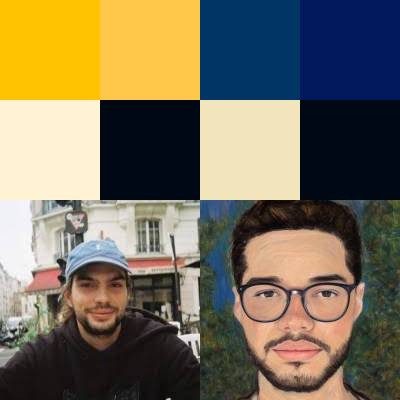
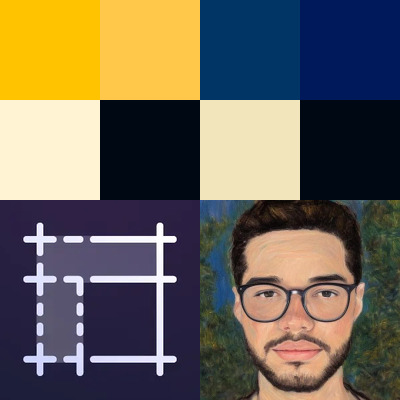
NavBar update
changed from Julien Thibeaut's to Build UI's animated tab component
fix- updated Mosaic image and Sobre o site text

Changed region(s): [[0.0, 0.48, 0.51, 1.0]]

diff --git a/kojima/src/components/NavBar.jsx b/kojima/src/components/NavBar.jsx
@@ -1,0 +1,60 @@
+import { motion } from "framer-motion";
+import { useState } from "react";
+import { useNavigate, useLocation } from "react-router-dom";
+
+const tabs = [
+    { id: "home",     label: "Home",     path: "/home" },
+    { id: "projetos", label: "Projetos", path: "/projetos" },
+    { id: "info",     label: "Info",     path: "/info" }
+];
+
+function NavBar() {
+    const navigate = useNavigate();
+    const location = useLocation();
+    const [activeTab, setActiveTab] = useState(
+        tabs.find(tab => tab.path === (location.pathname || "/"))?.id || "home"
+    );
+
+    const handleTabClick = (tab) => {
+        setActiveTab(tab.id);
+        navigate(tab.path);
+    };
+
+    return (
+        <div className="flex space-x-1">
+            <div className="navbar-container">
+                {tabs.map((tab) => (
+                    <button
+                        key={tab.id}
+                        onClick={() => handleTabClick(tab)}
+                        className={`${
+                            activeTab === tab.id ? "" : "hover:text-[color:var(--h1-color)]"
+                        } relative rounded-full px-1 py-1.5 transition`}
+                        style={{
+                            WebkitTapHighlightColor: "transparent",
+                        }}
+                    >
+                        {activeTab === tab.id && (
+                            <motion.span
+                                layoutId="bubble"
+                                // className="absolute inset-0 z-10 bg-white mix-blend-difference"
+                                className="absolute inset-0.5 z-10 bg-[color:var(--h1-color)]"  //bubble color
+                                style={{ borderRadius: 100 }}
+                                transition={{ type: "spring", bounce: 0.0, duration: 0.2 }}
+                            />
+                        )}
+                        <span
+                            className={`${
+                                activeTab === tab.id ? "text-[color:var(--background-color)]" : "hover:text-[color:var(--h1-color)] text-[color:var(--text-color)]"
+                            } relative z-20 font-bold text-1xl px-4 py-2`}
+                        >
+                            {tab.label}
+                        </span>
+                    </button>
+                ))}
+            </div>
+        </div>
+    );
+}
+
+export default NavBar;

diff --git a/kojima/src/pages/Info.js b/kojima/src/pages/Info.js
@@ -4,7 +4,7 @@ import Mosaic   from "./images/Mosaic.jpg";
 
 const links = {
     fog_itch: "https://fog-icmc.itch.io/",
-    navbar: "https://ibelick.com/blog/build-animated-sliding-tab-bar-with-react-tailwind-css/",
+    navbar: "https://buildui.com/recipes/animated-tabs/",
     dark_mode: "https://www.npmjs.com/package/react-toggle-dark-mode/"
 };
 
@@ -14,7 +14,7 @@ function Info() {
             <div className="content-section">
                 <img src={Renan} alt="Foto do Renan"/>
                 <div className="text-section">
-                    <h1>Sobre mim</h1>
+                    <h1>Sobre o Renan</h1>
                     <p>
                         Estudante de Engenharia mecatrônica, interessado<br/>
                         em automação industrial, programação e eletrônica.<br/>
@@ -41,7 +41,7 @@ function Info() {
                     <p>
                         Esse site foi construído utilizando HTML, CSS,<br/>
                         Tailwind e Javascript, implementando a <a href={links.navbar}  target="_blank" rel="noopener noreferrer">barra<br/>
-                        deslizante de guias</a> de Julien Thibeaut e<br/>
+                        deslizante de guias</a> do Build UI e o<br/>
                         <a href={links.dark_mode} target="_blank" rel="noopener noreferrer">alternador de temas</a> de Jose Felix.
                     </p>
                 </div>

diff --git a/kojima/src/App.jsx b/kojima/src/App.jsx
@@ -1,8 +1,8 @@
 import {BrowserRouter, Routes, Route, Navigate} from "react-router-dom";
 import ThemeToggle  from "./components/themeToggle/ThemeToggle";
-import Navbar       from "./components/Navbar";
+import NavBar       from "./components/NavBar";
 import Home         from "./pages/Home";
-import Info        from "./pages/Info";
+import Info         from "./pages/Info";
 import Projetos     from "./pages/Projetos";
 import "./App.css";
 
@@ -11,7 +11,7 @@ function App() {
     return (
         <BrowserRouter>
             <div className="App">
-                <Navbar />
+                <NavBar />
                 <ThemeToggle />
                 <Routes>
                     <Route path="/"          element={<Navigate to="/home"/>} />

diff --git a/kojima/src/index.css b/kojima/src/index.css
@@ -75,6 +75,18 @@ code {
   align-items: flex-start;
 }
 
+.navbar-container {
+  position: fixed;
+  top: 0;
+  left: 0;
+  width: 100%;
+  display: flex;
+  justify-content: center;
+  padding: 1rem;
+  z-index: 0;
+  /*has to be zero to be able to toggle dark mode*/
+}
+
 img {
   max-width: 200px;
   height: auto;
